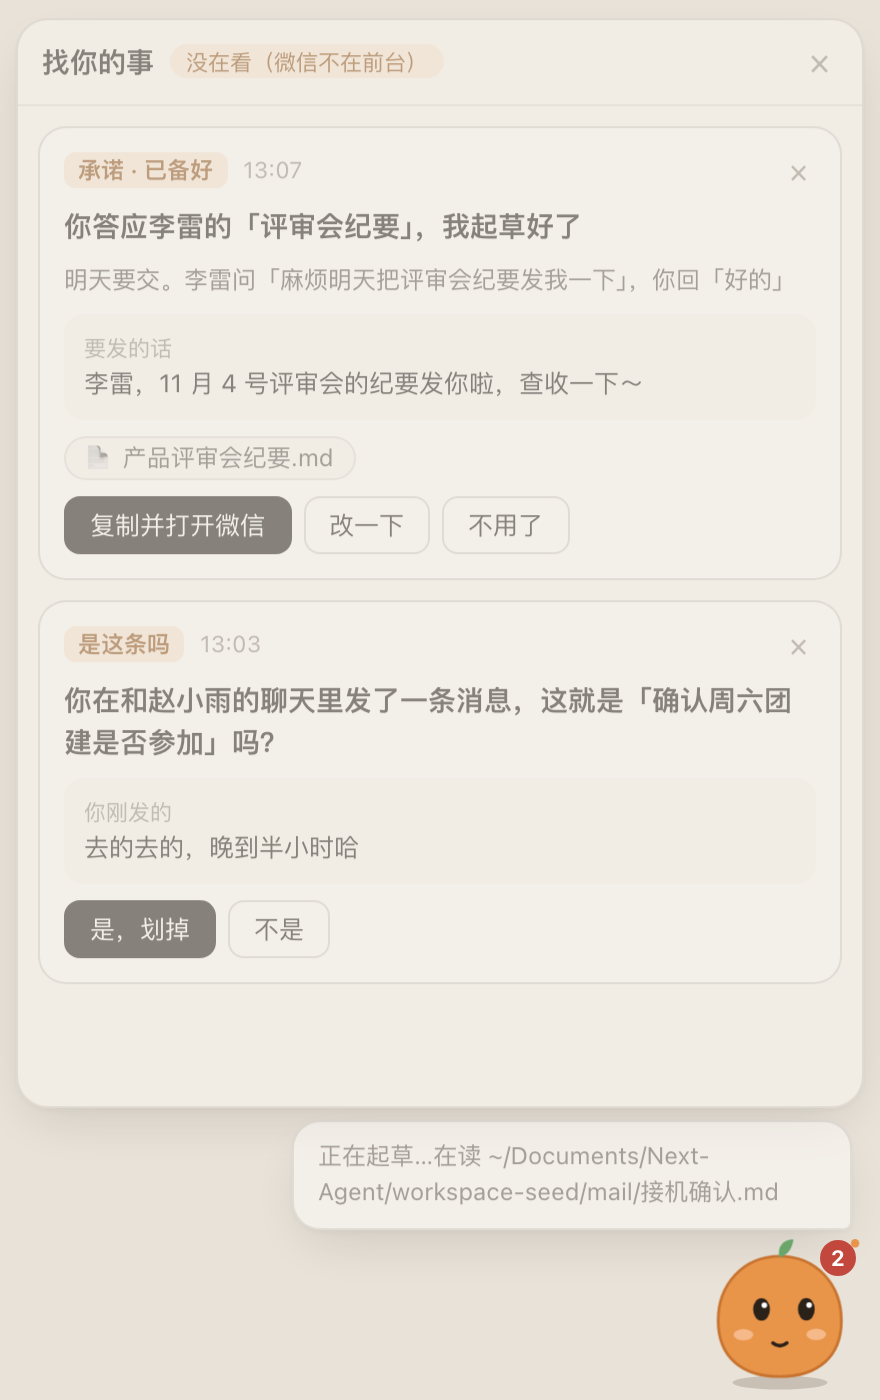
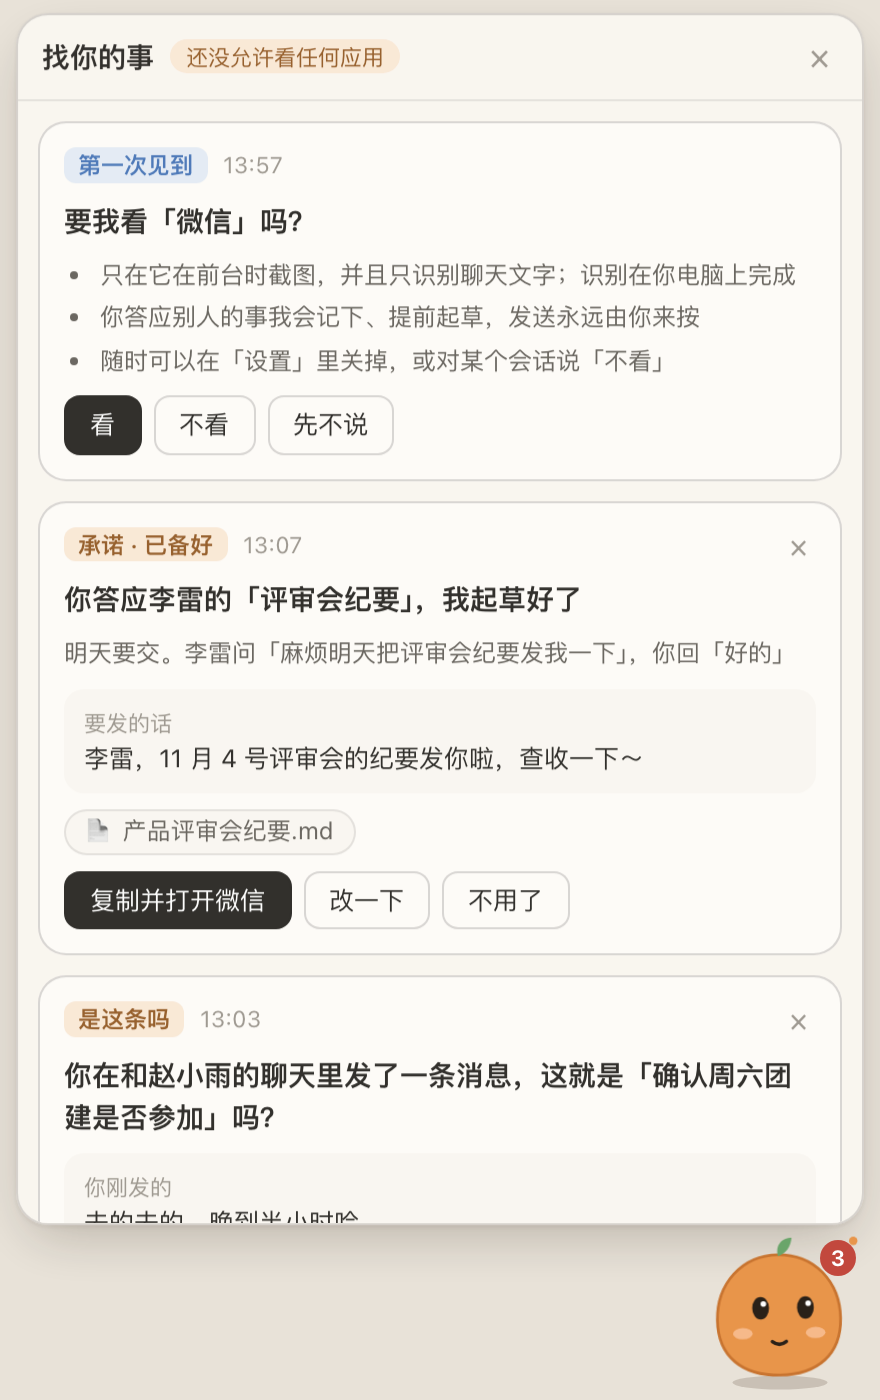
拾遗：应用白名单（第一次打开时征得同意）+ 设置页
- 白名单默认什么都不看：第一次打开已适配的应用（目前是微信）时，桌宠问「要我看吗」，
  看 / 不看（不再问）/ 先不说；未适配的应用不会问、不会截
- 原生端不再写死微信：白名单、截图间隔、暂停状态由页面从 daemon 读来再下发，改了立刻生效；收到之前不截任何东西
- 设置页：能看什么（应用开关、不看的会话）/ 怎么看（截图间隔 1–10 秒、暂停 1 小时或到明早）/
  什么时候开口（早上时间、收尾时间、每小时上限）/ 起草能用什么（材料文件夹）/ 数据（打开文件夹、清空聊天记录）
- 去掉「私密应用」名单

diff --git a/pet/pet.js b/pet/pet.js
@@ -9,6 +9,7 @@ const act = a => fetch('/action', { method: 'POST', headers: { 'content-type': '
 let S = null            // 最新快照
 let view = new URLSearchParams(location.search).get('view')   // null | 'cards' | 'insight' | 'book' | 'today' | {doc}（?view= 用于调试截图）
 let lastNod = -1
+let lastWatch = ''
 let bubble = { text: '', until: 0, tone: '' }
 let editing = null      // {id, mode:'revise'|'supply'}
 let quitArmed = false
@@ -58,6 +59,8 @@ function connect() {
   es.onmessage = e => {
     const prev = S
     S = JSON.parse(e.data)
+    const w = JSON.stringify(S.watch)
+    if (w !== lastWatch) { lastWatch = w; post({ watch: S.watch }) }
     if (S.nod !== lastNod) { if (lastNod >= 0 && S.nodText) { nod(); say(S.nodText, 4000, 'quiet') } lastNod = S.nod }
     if (prev && S.cards.length > prev.cards.length && !view) say(S.cards[0].title, 0, 'call')
     if (!editing) render()
@@ -85,7 +88,7 @@ function render() {
   bubbleEl.onclick = !S.screenAccess ? () => act({ type: 'open-privacy' }) : () => { view = S.cards.length ? 'cards' : view; render() }
 
   const canIgnore = S.wechat && S.currentConv && !S.ignoreConvs.includes(S.currentConv)
-  const status = !S.eyes ? '闭眼中' : S.privateApp ? '私密应用在前台' : S.wechat ? (S.currentConv ? `在看：${short(S.currentConv)}` : '在看微信') : '微信不在前台'
+  const status = statusText()
   menu.replaceChildren(...[
     h('small', {}, status),
     h('button', { onclick: () => { const on = !S.eyes; post({ eyes: on }); act({ type: 'eyes', on }); say(on ? '我睁眼啦，只看微信。' : '好，我闭眼，什么都不看。', 2500, 'quiet') } }, S.eyes ? '闭眼（暂停看）' : '睁眼'),
@@ -94,6 +97,7 @@ function render() {
     h('button', { onclick: () => open('today') }, '在帮你盯的事'),
     h('button', { onclick: () => open('insight') }, '它看到了什么'),
     h('button', { onclick: () => open('book') }, '我的工作方式'),
+    h('button', { onclick: () => open('settings') }, '设置'),
     h('div', { class: 'sep' }),
     h('button', { class: quitArmed ? 'danger' : 'quit', onclick: () => {
       if (!quitArmed) { quitArmed = true; render(); setTimeout(() => { quitArmed = false; render() }, 3000); return }
@@ -106,11 +110,18 @@ function render() {
   sizeTo()
 }
 const open = v => { view = view === v ? null : v; render() }
+function statusText() {
+  if (!S.eyes) return '闭眼中'
+  if (S.paused) return '暂停中'
+  if (S.wechat) return S.currentConv ? `在看：${S.watchingApp} · ${short(S.currentConv)}` : `在看：${S.watchingApp}`
+  const on = S.apps.filter(a => a.state === 'on').map(a => a.name)
+  return on.length ? `没在看（${on.join('、')}不在前台）` : '还没允许看任何应用'
+}
 const short = s => s.length > 8 ? s.slice(0, 8) + '…' : s
 
 function head() {
-  const title = typeof view === 'object' ? view.doc.split('/').pop() : { cards: '找你的事', insight: '它看到了什么', book: '我的工作方式', today: '在帮你盯的事' }[view]
-  const status = !S.eyes ? '闭眼中' : S.privateApp ? '私密应用在前台，没在看' : S.wechat ? '在看微信' : '没在看（微信不在前台）'
+  const title = typeof view === 'object' ? view.doc.split('/').pop() : { cards: '找你的事', insight: '它看到了什么', book: '我的工作方式', today: '在帮你盯的事', settings: '设置' }[view]
+  const status = statusText()
   return h('div', { class: 'head' },
     typeof view === 'object' ? h('button', { class: 'back', onclick: () => { view = 'cards'; render() } }, '‹') : null,
     h('b', {}, title), h('span', { class: 'status' }, status),
@@ -122,11 +133,23 @@ function body() {
   if (view === 'insight') return insightView()
   if (view === 'book') return bookView()
   if (view === 'today') return todayView()
+  if (view === 'settings') return settingsView()
   return S.cards.length ? h('div', { class: 'cards' }, S.cards.map(cardView)) : h('div', { class: 'empty' }, '现在没有要找你的事。我在看着微信，你答应别人的事、交给我的事，我都会盯着。')
 }
 
 /* ── 卡片 ── */
 function cardView(c) {
+  if (c.kind === 'consent') return h('div', { class: 'card card-consent' },
+    h('div', { class: 'card-top' }, h('span', { class: 'kind' }, '第一次见到'), h('span', {}, c.at)),
+    h('div', { class: 'title' }, c.title),
+    h('ul', { class: 'consent' },
+      h('li', {}, '只在它在前台时截图，并且只识别聊天文字；识别在你电脑上完成'),
+      h('li', {}, '你答应别人的事我会记下、提前起草，发送永远由你来按'),
+      h('li', {}, '随时可以在「设置」里关掉，或对某个会话说「不看」')),
+    h('div', { class: 'actions' },
+      h('button', { class: 'btn primary', onclick: () => { act({ type: 'app-consent', app: c.app, choice: 'on' }); say(`好，我开始看${c.app}了。`, 2500, 'quiet') } }, '看'),
+      h('button', { class: 'btn', onclick: () => act({ type: 'app-consent', app: c.app, choice: 'off' }) }, '不看'),
+      h('button', { class: 'btn', onclick: () => act({ type: 'app-consent', app: c.app, choice: 'later' }) }, '先不说')))
   if (c.kind === 'learn') return h('div', { class: 'card card-learn' },
     h('div', { class: 'card-top' }, h('span', { class: 'kind' }, '想记住一条'), h('span', {}, c.at)),
     h('div', { class: 'title' }, c.title),
@@ -232,7 +255,6 @@ function bookView() {
     editing?.rule === 'new' ? ruleEditor(null) : h('button', { class: 'btn add', onclick: () => { editing = { rule: 'new' }; render() } }, '＋ 加一条规则'),
     on.length ? h('ol', { class: 'rules' }, on.map(ruleRow)) : editing?.rule === 'new' ? null : h('div', { class: 'empty' }, '还没有规则。你可以直接写一条，比如「给客户的消息都带上称呼」。'),
     off.length ? h('details', { class: 'off-rules' }, h('summary', {}, `已停用 ${off.length} 条`), h('ol', { class: 'rules' }, off.map(ruleRow))) : null,
-    S.ignoreConvs.length ? h('div', { class: 'ignored' }, h('b', {}, '不看的会话'), S.ignoreConvs.map(cv => h('span', { class: 'chip' }, cv, ' ', h('button', { class: 'link', onclick: () => act({ type: 'unignore-conv', conv: cv }) }, '恢复')))) : null,
     h('p', { class: 'path' }, `规则以这里为准，会同步写进 ${S.home}/workspace/AGENTS.md；直接改那个文件会被覆盖。`))
 }
 
@@ -287,6 +309,49 @@ function taskEditor() {
   return h('div', { class: 'revise' }, text, h('div', { class: 'actions' },
     h('button', { class: 'btn primary', onclick: save }, '交给你'),
     h('button', { class: 'btn', onclick: () => { editing = null; render() } }, '取消')))
+}
+
+/* 设置：能看什么 / 怎么看 / 什么时候开口 / 起草能用什么 / 数据 */
+function settingsView() {
+  const st = S.settings
+  const set = patch => act({ type: 'settings', patch })
+  const row = (label, hint, control) => h('div', { class: 'set-row' }, h('div', {}, h('b', {}, label), hint ? h('small', {}, hint) : null), control)
+  const appRow = a => row(a.name, a.state === 'on' ? '在看：只看聊天文字，在你电脑上识别' : a.state === 'off' ? '你说过不看，不会再问' : '还没问过你，下次打开时会问',
+    h('div', { class: 'seg' }, [['on', '看'], ['off', '不看']].map(([v, l]) => h('button', { class: a.state === v ? 'is-on' : '', onclick: () => act({ type: 'app-set', app: a.name, value: v }) }, l))))
+  const pauseText = S.paused ? `已暂停到 ${new Date(S.pauseUntil).toLocaleString('zh-CN', { month: 'numeric', day: 'numeric', hour: '2-digit', minute: '2-digit' })}` : '没暂停'
+  const matInput = h('input', { class: 'scope', placeholder: '加一个文件夹，比如 ~/Projects', onfocus: () => { editing = { settings: true } }, onblur: () => { editing = null } })
+  const addMat = () => { const v = matInput.value.trim(); if (!v) return; editing = null; set({ materials: [...st.materials, v] }) }
+  matInput.addEventListener('keydown', e => { if (e.key === 'Enter') addMat() })
+  let clearArmed = false
+  const clearBtn = h('button', { class: 'btn', onclick: e => {
+    if (!clearArmed) { clearArmed = true; e.target.textContent = '再点一次确认清空'; e.target.classList.add('danger'); return }
+    act({ type: 'clear-transcripts' }); say('存下的聊天记录都清掉了。', 2500, 'quiet')
+  } }, '清空聊天记录')
+  return h('div', { class: 'scroll settings' },
+    h('h4', {}, '能看什么'),
+    h('p', { class: 'intro' }, '拾遗只看你同意过的应用。目前适配了的应用才会问你；没适配的（分不清谁说的）不会去看。'),
+    S.apps.map(appRow),
+    S.ignoreConvs.length ? row('不看的会话', '在已允许的应用里也跳过', h('div', { class: 'chips' }, S.ignoreConvs.map(cv => h('span', { class: 'chip' }, cv, ' ', h('button', { class: 'link', onclick: () => act({ type: 'unignore-conv', conv: cv }) }, '恢复'))))) : null,
+
+    h('h4', {}, '怎么看'),
+    row('截图间隔', '越短发现得越快，但更耗电。识别都在本机，不花 token；画面没变会跳过',
+      h('select', { onchange: e => set({ captureIntervalSec: Number(e.target.value) }) }, [1, 2, 2.5, 3, 5, 10].map(v => h('option', { value: v, selected: v === st.captureIntervalSec || null }, `${v} 秒`)))),
+    row('暂停', pauseText, h('div', { class: 'seg' },
+      S.paused ? h('button', { onclick: () => act({ type: 'pause', off: true }) }, '取消暂停')
+        : [h('button', { onclick: () => act({ type: 'pause', minutes: 60 }) }, '1 小时'), h('button', { onclick: () => act({ type: 'pause', until: 'morning' }) }, '到明早')])),
+
+    h('h4', {}, '什么时候开口'),
+    row('早上开口时间', '截止在之后的事，当天这个时间才找你', h('input', { type: 'time', value: st.morningAt, onchange: e => set({ morningAt: e.target.value }) })),
+    row('下班收尾时间', '每天这个时间列出今天在盯的事', h('input', { type: 'time', value: st.wrapUpAt, onchange: e => set({ wrapUpAt: e.target.value }) })),
+    row('每小时最多主动开口', '你主动点开的不算', h('select', { onchange: e => set({ speakBudgetPerHour: Number(e.target.value) }) }, [2, 4, 6, 10, 20].map(v => h('option', { value: v, selected: v === st.speakBudgetPerHour || null }, `${v} 次`)))),
+
+    h('h4', {}, '起草时能用什么'),
+    row('材料文件夹', '要交文档时，拾遗只读地在这些地方找材料', null),
+    h('div', { class: 'mats' }, st.materials.map(m => h('span', { class: 'chip' }, m, ' ', h('button', { class: 'link', onclick: () => set({ materials: st.materials.filter(x => x !== m) }) }, '移除'))),
+      h('span', { class: 'mat-add' }, matInput, h('button', { class: 'btn', onclick: addMat }, '加上'))),
+
+    h('h4', {}, '数据'),
+    row('聊天记录', `只存在你电脑上：${S.home}`, h('div', { class: 'seg' }, h('button', { onclick: () => act({ type: 'open-data' }) }, '打开文件夹'), clearBtn)))
 }
 
 function docView(path) {

diff --git a/native/Shiyi.swift b/native/Shiyi.swift
@@ -1,7 +1,8 @@
 // 拾遗.app：浮在所有窗口上方的桌宠 + 「眼睛」（只看微信窗口，本机 OCR）。
 // 业务逻辑全部在本机 daemon（node daemon/main.mjs）里；这里只负责：
 //   1) 透明置顶小窗，加载 http://127.0.0.1:7801/pet/
-//   2) 每 2.5 秒：前台是微信且眼睛睁着 → 截微信窗口 → Vision OCR → POST /observe
+//   2) 按设置的间隔：前台应用在白名单里、没暂停 → 截该窗口 → Vision OCR → POST /observe
+//      白名单/间隔/暂停由桌宠页面从 daemon 读来再告诉这里；收到之前什么都不截（默认不看）
 //   3) 前台应用变化 → POST /focus（daemon 判断私密名单、更新桌宠状态）
 // 构建：scripts/build-native.sh
 
@@ -10,7 +11,6 @@ import WebKit
 import Vision
 
 let DAEMON = URL(string: "http://127.0.0.1:7801")!
-let WECHAT_IDS: Set<String> = ["com.tencent.xinWeChat", "com.tencent.WeChat"]
 
 final class PetPanel: NSPanel {
     override var canBecomeKey: Bool { true }
@@ -22,6 +22,8 @@ final class AppDelegate: NSObject, NSApplicationDelegate, WKScriptMessageHandler
     var timer: Timer?
     var lastHash: UInt64 = 0
     var eyesOn = true
+    var watchBundles: Set<String> = []   // 白名单（来自设置）
+    var interval: Double = 2.5
     var busy = false
     var size = NSSize(width: 300, height: 210)
     var hitRects: [NSRect] = []          // 网页里可点的区域（左上角原点）；其余透明处点击穿透
@@ -52,9 +54,14 @@ final class AppDelegate: NSObject, NSApplicationDelegate, WKScriptMessageHandler
         NSWorkspace.shared.notificationCenter.addObserver(self, selector: #selector(appChanged(_:)),
             name: NSWorkspace.didActivateApplicationNotification, object: nil)
         if !CGPreflightScreenCaptureAccess() { CGRequestScreenCaptureAccess() }
-        timer = Timer.scheduledTimer(withTimeInterval: 2.5, repeats: true) { [weak self] _ in self?.tick() }
+        restartTimer()
         hover = Timer.scheduledTimer(withTimeInterval: 0.05, repeats: true) { [weak self] _ in self?.updatePassThrough() }
         reportFocus(NSWorkspace.shared.frontmostApplication)
+    }
+
+    func restartTimer() {
+        timer?.invalidate()
+        timer = Timer.scheduledTimer(withTimeInterval: interval, repeats: true) { [weak self] _ in self?.tick() }
     }
 
     func loadPet() { web.load(URLRequest(url: DAEMON.appendingPathComponent("pet/"))) }
@@ -105,6 +112,13 @@ final class AppDelegate: NSObject, NSApplicationDelegate, WKScriptMessageHandler
             size = NSSize(width: w, height: h); place()
         }
         if let e = body["eyes"] as? Bool { eyesOn = e; lastHash = 0 }
+        if let w = body["watch"] as? [String: Any] {
+            watchBundles = Set(w["bundles"] as? [String] ?? [])
+            eyesOn = !(w["paused"] as? Bool ?? false)
+            let iv = min(10, max(1, w["interval"] as? Double ?? 2.5))
+            if iv != interval { interval = iv; restartTimer() }
+            lastHash = 0
+        }
         if body["focus"] as? Bool == true { NSApp.activate(ignoringOtherApps: true); panel.makeKey() }
         if body["quit"] as? Bool == true { NSApp.terminate(nil) }
     }
@@ -122,7 +136,7 @@ final class AppDelegate: NSObject, NSApplicationDelegate, WKScriptMessageHandler
     // ── 眼睛 ──
     func tick() {
         guard eyesOn, !busy, let app = NSWorkspace.shared.frontmostApplication,
-              let bid = app.bundleIdentifier, WECHAT_IDS.contains(bid) else { return }
+              let bid = app.bundleIdentifier, watchBundles.contains(bid) else { return }
         guard CGPreflightScreenCaptureAccess() else { return }
         guard let (wid, bounds) = mainWindow(pid: app.processIdentifier) else { return }
         guard let img = CGWindowListCreateImage(.null, .optionIncludingWindow, wid, [.boundsIgnoreFraming, .bestResolution]) else { return }
@@ -134,7 +148,7 @@ final class AppDelegate: NSObject, NSApplicationDelegate, WKScriptMessageHandler
             let lines = self.ocr(img)
             self.busy = false
             self.post("observe", [
-                "app": "微信", "bundle": bid,
+                "app": app.localizedName ?? bid, "bundle": bid,
                 "window": ["w": bounds.width, "h": bounds.height],
                 "image": ["w": img.width, "h": img.height],
                 "lines": lines,

diff --git a/pet/pet.css b/pet/pet.css
@@ -156,3 +156,23 @@ button.dot:hover { background: var(--amber-soft); }
 .off-rules summary { font-size: 12px; color: var(--ink-3); cursor: pointer; margin: 4px 0; }
 .scope { border: 1px solid var(--line-2); border-radius: 8px; padding: 6px 8px; font: inherit; font-size: 12px; outline: none; }
 .scope:focus { border-color: var(--amber); }
+/* 同意卡片 / 设置 */
+.card-consent .kind { color: var(--blue); background: var(--blue-soft); }
+.consent { margin: 0; padding-left: 18px; font-size: 12px; color: var(--ink-2); display: flex; flex-direction: column; gap: 3px; }
+.settings h4 { margin: 8px 0 0; font-size: 11.5px; font-weight: 600; color: var(--ink-3); letter-spacing: .5px; }
+.settings h4:first-child { margin-top: 0; }
+.set-row { display: flex; align-items: center; justify-content: space-between; gap: 12px; padding: 8px 10px; background: var(--card); border: 1px solid var(--line); border-radius: 10px; }
+.set-row > div:first-child { min-width: 0; }
+.set-row b { display: block; font-size: 13px; font-weight: 600; }
+.set-row small { display: block; font-size: 11.5px; color: var(--ink-3); line-height: 1.45; }
+.set-row select, .set-row input[type=time] { font: inherit; font-size: 12.5px; border: 1px solid var(--line-2); border-radius: 7px; padding: 3px 6px; background: var(--card); }
+.seg { display: flex; gap: 0; flex: none; border: 1px solid var(--line-2); border-radius: 8px; overflow: hidden; }
+.seg button { border: 0; background: var(--card); padding: 4px 10px; font-size: 12px; white-space: nowrap; }
+.seg button + button { border-left: 1px solid var(--line-2); }
+.seg button.is-on { background: var(--ink); color: #fff; }
+.seg .btn { border: 0; border-radius: 0; }
+.btn.danger, .seg .danger { background: var(--err) !important; color: #fff !important; }
+.mats { display: flex; flex-wrap: wrap; gap: 6px; align-items: center; }
+.mats .link { margin: 0; font-size: 11px; }
+.mat-add { display: flex; gap: 6px; width: 100%; }
+.mat-add input { flex: 1; }
